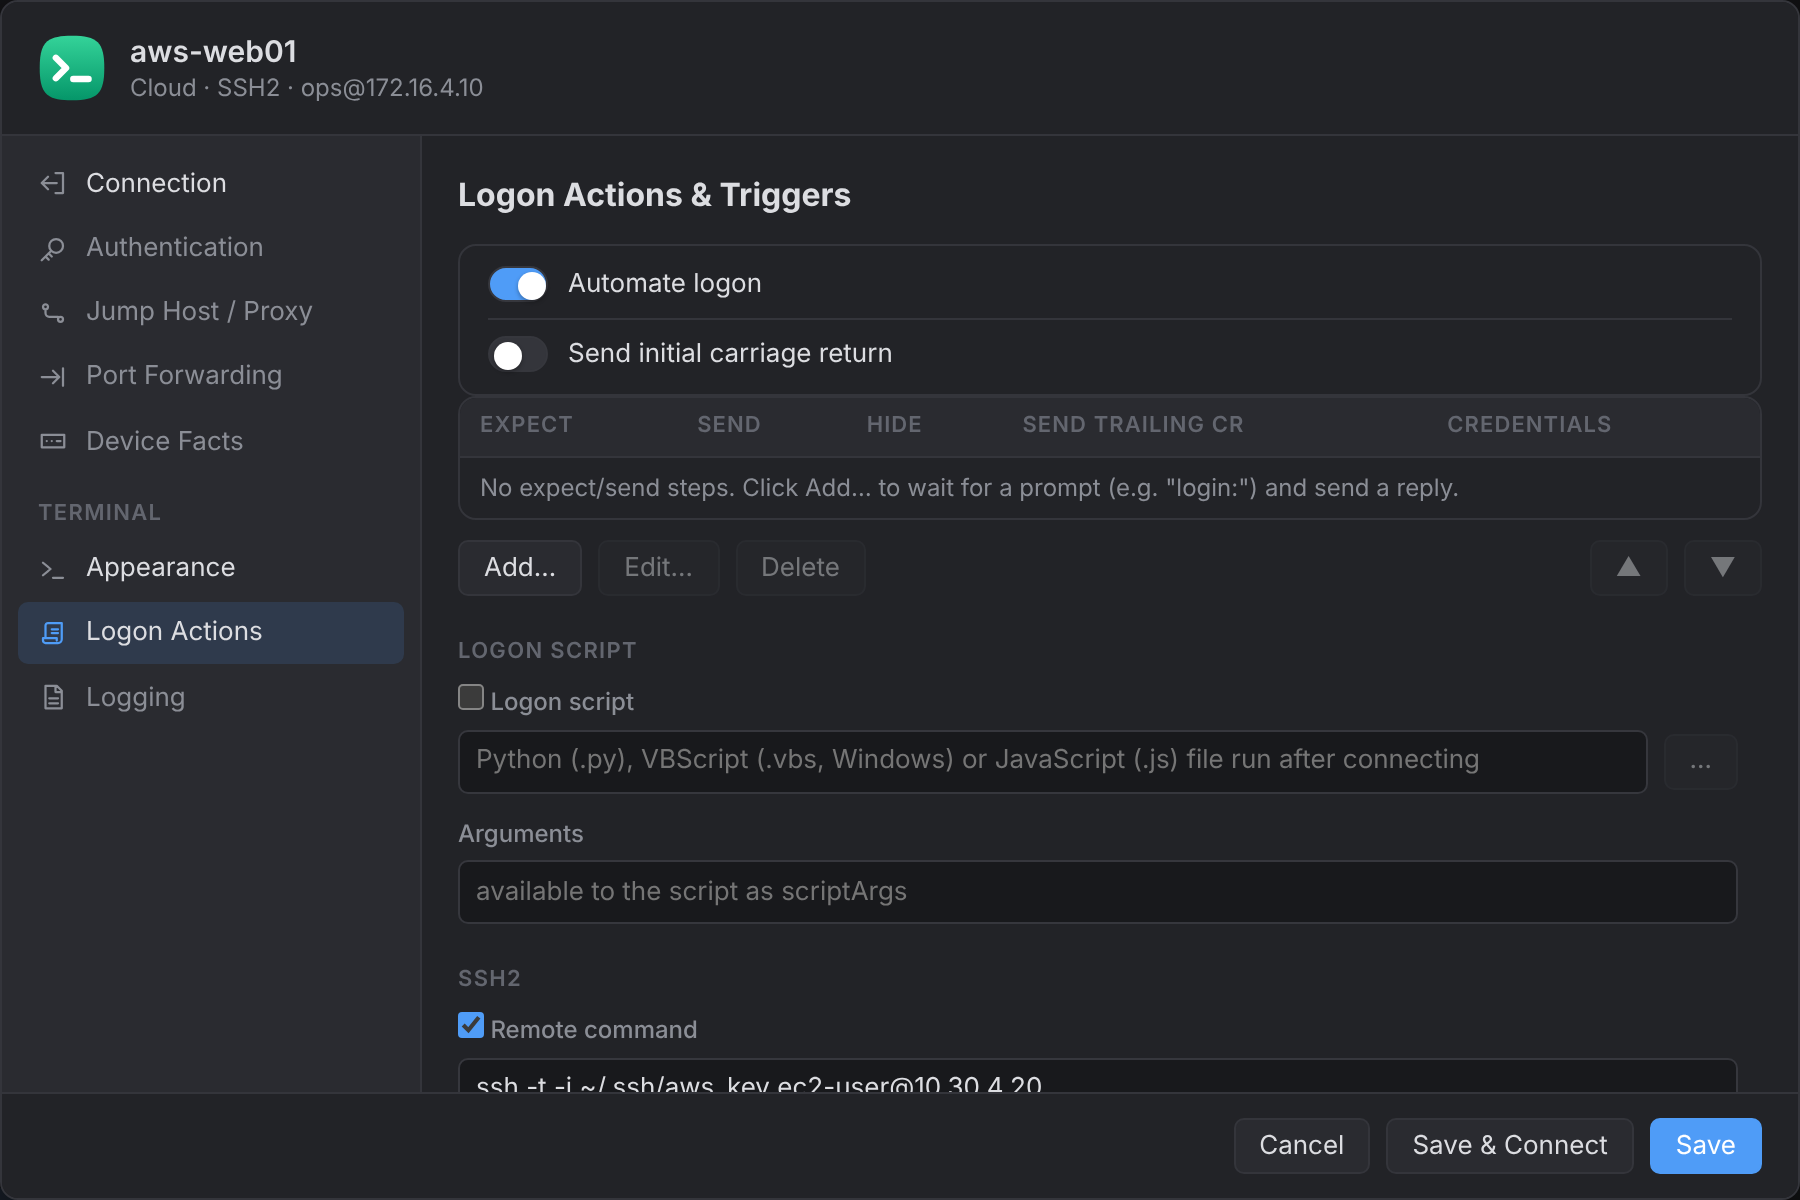
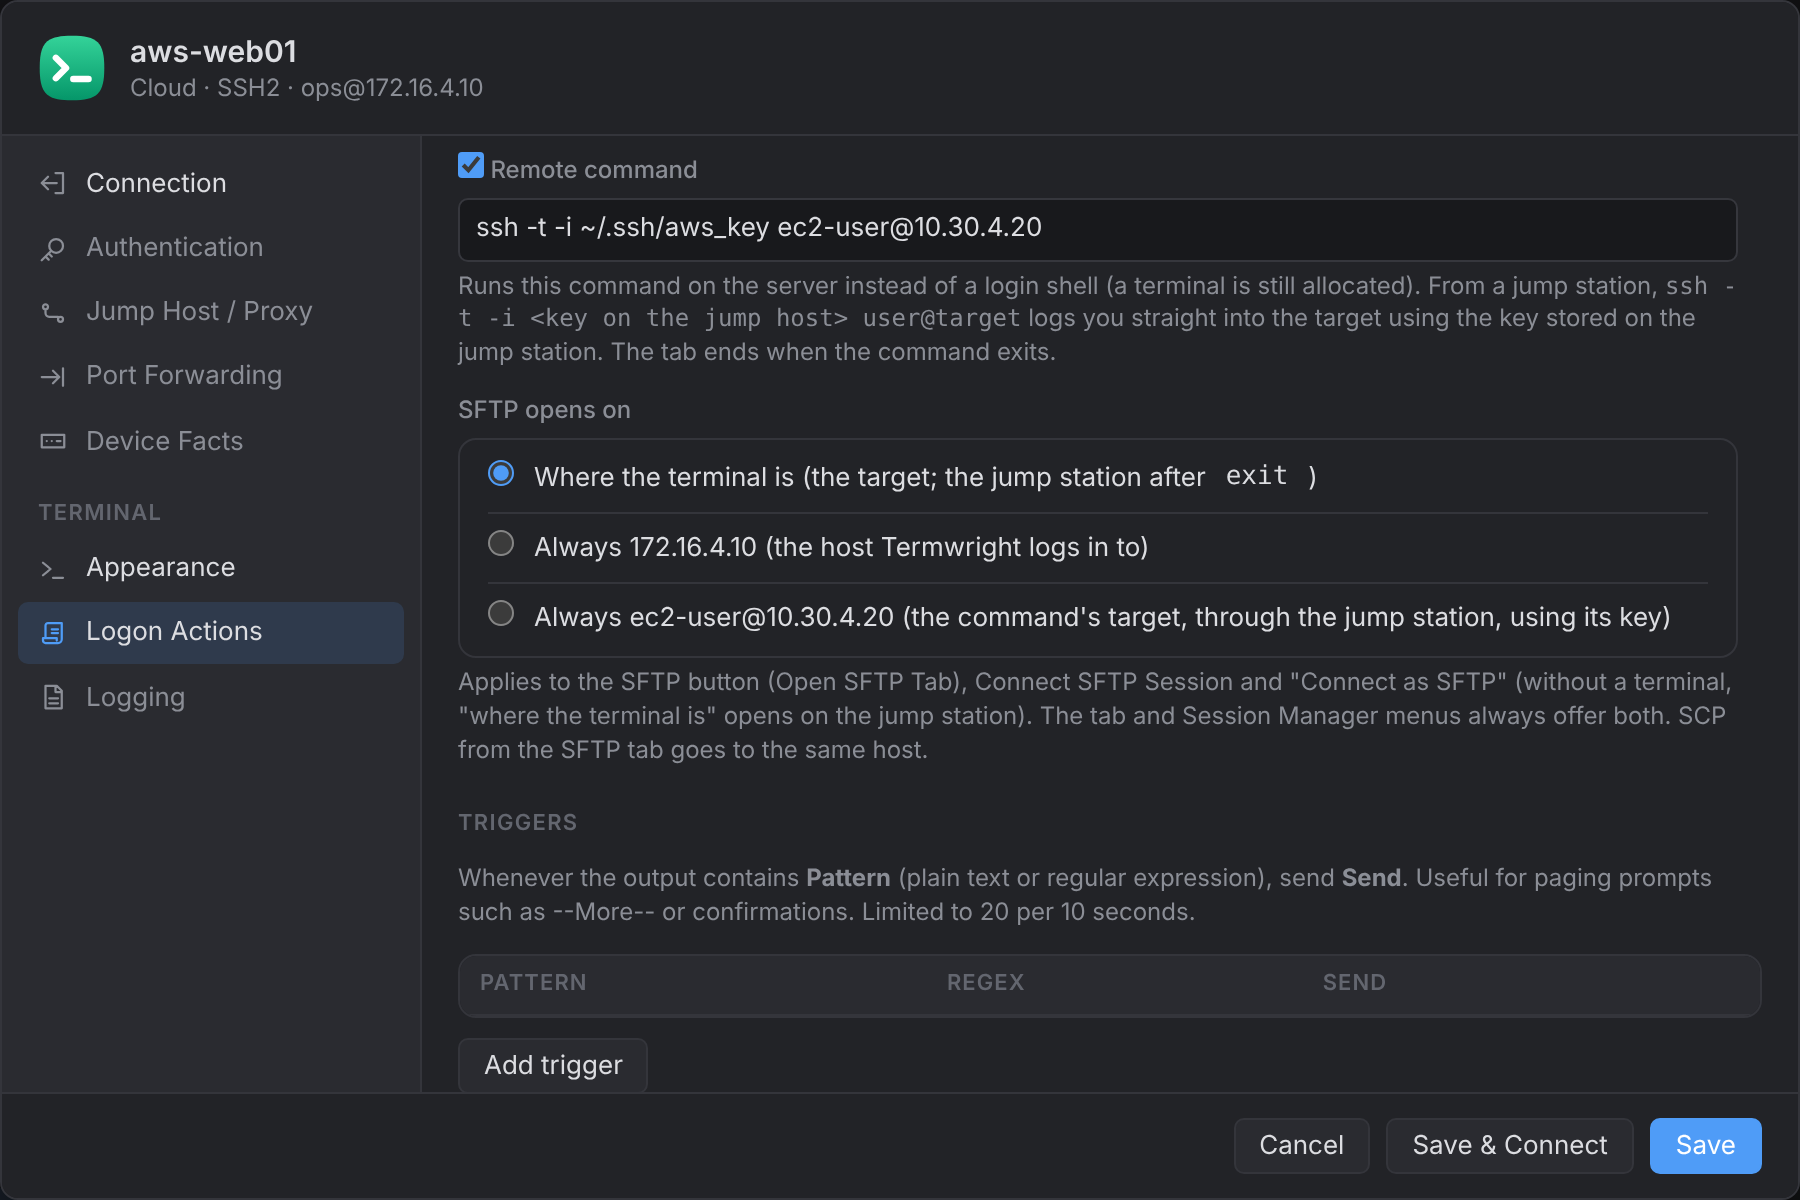
SFTP opens on: where the terminal is (default), always the jump station or always the target

diff --git a/frontend/src/app/dialogs/session-editor.ts b/frontend/src/app/dialogs/session-editor.ts
@@ -473,12 +473,13 @@ export async function storeSession(ui: Ui, backend: Backend, tabs: Tabs, s: Sess
                   @if (s.useRemoteCommand && isHop(s.remoteCommand)) {
                     <label>SFTP opens on</label>
                     <div class="checks">
-                      <label><input type="radio" name="sftpt" [value]="false" [ngModel]="!!s.sftpToTarget" (ngModelChange)="s.sftpToTarget = $event" /> {{ s.hostname || 'the jump station' }} (the host Termwright logs in to)</label>
-                      <label><input type="radio" name="sftpt" [value]="true" [ngModel]="!!s.sftpToTarget" (ngModelChange)="s.sftpToTarget = $event" /> {{ hopTarget(s.remoteCommand) }} (the command's target, through the jump station, using its key)</label>
+                      <label><input type="radio" name="sftpt" value="" [ngModel]="sftpOn(s)" (ngModelChange)="setSftpOn(s, $event)" /> Where the terminal is (the target; the jump station after <code>exit</code>)</label>
+                      <label><input type="radio" name="sftpt" value="jump" [ngModel]="sftpOn(s)" (ngModelChange)="setSftpOn(s, $event)" /> Always {{ s.hostname || 'the jump station' }} (the host Termwright logs in to)</label>
+                      <label><input type="radio" name="sftpt" value="target" [ngModel]="sftpOn(s)" (ngModelChange)="setSftpOn(s, $event)" /> Always {{ hopTarget(s.remoteCommand) }} (the command's target, through the jump station, using its key)</label>
                     </div>
                     <label></label>
-                    <div class="hint">Applies to the SFTP toolbar button, Connect SFTP Session and "Connect as SFTP". The tab and Session Manager
-                      menus always offer both. SCP from the SFTP tab goes to the same host.</div>
+                    <div class="hint">Applies to the SFTP button (Open SFTP Tab), Connect SFTP Session and "Connect as SFTP" (without a terminal,
+                      "where the terminal is" opens on the jump station). The tab and Session Manager menus always offer both. SCP from the SFTP tab goes to the same host.</div>
                   }
                 </div>
               }
@@ -650,6 +651,9 @@ export class SessionEditor implements OnInit {
   readonly deviceTypes = computed(() => (this.ui.settings()?.deviceTypes ?? []).map(d => d.name));
   /** Light check for "ssh … host" (the backend parses it fully). */
   isHop(cmd: string) { return /^\s*(exec\s+)?\S*\bssh\s+\S/.test(cmd ?? ''); }
+  /** SFTP opens on: '' where the terminal is, 'jump' or 'target' (older sessions: the target flag). */
+  sftpOn(s: Session) { return s.sftpOn || (s.sftpToTarget ? 'target' : ''); }
+  setSftpOn(s: Session, v: '' | 'jump' | 'target') { s.sftpOn = v; s.sftpToTarget = v === 'target'; }
   hopTarget(cmd: string) {
     const w = (cmd ?? '').trim().split(/\s+/).filter(x => x !== 'exec');
     for (let i = 1; i < w.length; i++) {

diff --git a/frontend/src/app/core/models.ts b/frontend/src/app/core/models.ts
@@ -17,7 +17,7 @@ export interface Session {
   consoleServer?: string; consolePort?: number; consoleMethod?: string; consoleUser?: string; consoleBase?: number; consoleProtocol?: string;
   environment?: string; rdpDomain?: string; rdpFullScreen?: boolean; rdpSize?: string; vncViewOnly?: boolean; keywordSet: string; fontFamily: string; fontSize: number; backspace: '' | 'bs'; logonScript: string; serialDtr: boolean; serialRts: boolean;
   logonArgs: string; useLogonScript: boolean; automateLogon: boolean; initialCr: boolean;
-  remoteCommand: string; useRemoteCommand: boolean; openAs: '' | 'sftp'; deviceType: string; ownLogin: boolean; sftpToTarget: boolean; filesPanel?: boolean;
+  remoteCommand: string; useRemoteCommand: boolean; openAs: '' | 'sftp'; deviceType: string; ownLogin: boolean; sftpToTarget: boolean; sftpOn?: '' | 'jump' | 'target'; filesPanel?: boolean;
   kerberosPrincipal: string; kerberosSpn: string; certificateFile: string; serialFlow: '' | 'rtscts' | 'xonxoff';
   serialAutoBaud?: boolean; timestamps?: boolean; noAutoScroll?: boolean;
 }

diff --git a/frontend/src/app/core/tabs.service.ts b/frontend/src/app/core/tabs.service.ts
@@ -164,12 +164,14 @@ export class Tabs {
     // reports the jump station): open SFTP on the host the terminal is on, so
     // the tab can follow its folder; the jump station if that fails.
     const auto = !mode && !!p.hopTarget;
-    if (auto) mode = this.onJump(p) ? 'jump' : 'target';
+    // A host chosen in Session Options (SFTP opens on) wins.
+    const pref = p.session.sftpOn || (p.session.sftpToTarget ? 'target' : '');
+    if (auto) mode = pref || (this.onJump(p) ? 'jump' : 'target');
     try {
       let r: Awaited<ReturnType<Backend['sftpOpen']>>;
       try { r = await this.backend.sftpOpen(p.id, mode); }
       catch (e) {
-        if (!auto || mode !== 'target') throw e;
+        if (!auto || pref || mode !== 'target') throw e;
         this.ui.toast(`SFTP on ${p.hopTarget} did not start (${e instanceof Error ? e.message : e}) - opened on ${p.session.hostname}, where the terminal's folder cannot be followed.`, 'error', 10000);
         mode = 'jump';
         r = await this.backend.sftpOpen(p.id, mode);

diff --git a/internal/session/session.go b/internal/session/session.go
@@ -97,6 +97,7 @@ const (
 	kConProto     = "Termwright Console Protocol"
 	kSFTPTarget   = "Termwright SFTP To Command Target"
 	kFilesPanel   = "Termwright Files Panel"
+	kSFTPOn       = "Termwright SFTP On"
 	kKrbPrinc     = "Termwright Kerberos Principal"
 	kKrbSPN       = "Termwright Kerberos SPN"
 	kCertFile     = "Termwright Certificate File"
@@ -219,6 +220,7 @@ type Session struct {
 	MAC               string `json:"mac"`               // the device's MAC address (Discover Devices): finds it again when its IP changes
 	SmartCard         string `json:"smartCard"`         // "" = no, "any" = any key on a smart card, else the key's SHA256 fingerprint
 	SFTPToTarget      bool   `json:"sftpToTarget"`      // remote command "ssh … host": SFTP opens on that host, through this connection
+	SFTPOn            string `json:"sftpOn"`            // remote command "ssh … host": where SFTP opens - "" where the terminal is, "jump" or "target"
 	FilesPanel        bool   `json:"filesPanel"`        // SSH2: a file browser beside the terminal that follows its folder
 	SerialDTR         bool   `json:"serialDtr"`         // assert DTR when opening the port
 	SerialRTS         bool   `json:"serialRts"`         // assert RTS when opening the port
@@ -331,6 +333,10 @@ func FromFile(path string, f *sessionfile.File) Session {
 	s.ConsoleProtocol = f.Str(kConProto, "")
 	s.SFTPToTarget = f.Bool(kSFTPTarget, false)
 	s.FilesPanel = f.Bool(kFilesPanel, false)
+	s.SFTPOn = f.Str(kSFTPOn, "")
+	if s.SFTPOn == "" && s.SFTPToTarget {
+		s.SFTPOn = "target"
+	}
 	s.KerberosPrincipal = f.Str(kKrbPrinc, "")
 	s.KerberosSPN = f.Str(kKrbSPN, "")
 	s.CertificateFile = f.Str(kCertFile, "")
@@ -646,7 +652,17 @@ func (s Session) Apply(f *sessionfile.File) {
 		f.Delete(kConPort)
 		f.Delete(kConBase)
 	}
+	if s.SFTPOn == "target" {
+		s.SFTPToTarget = true
+	} else if s.SFTPOn != "" {
+		s.SFTPToTarget = false
+	}
 	setOptBool(f, kSFTPTarget, s.SFTPToTarget && s.UseRemoteCommand)
+	if s.SFTPOn != "jump" && s.SFTPOn != "target" || !s.UseRemoteCommand {
+		f.Delete(kSFTPOn)
+	} else {
+		f.SetStr(kSFTPOn, s.SFTPOn)
+	}
 	setOptBool(f, kFilesPanel, s.FilesPanel && s.Protocol == ProtoSSH2)
 	setOptStr(f, kKrbPrinc, s.KerberosPrincipal)
 	setOptStr(f, kKrbSPN, s.KerberosSPN)

diff --git a/internal/session/sftpon_test.go b/internal/session/sftpon_test.go
@@ -1,0 +1,33 @@
+package session
+
+import "testing"
+
+func TestSFTPOnRoundTrip(t *testing.T) {
+	st, err := NewStore(t.TempDir())
+	if err != nil {
+		t.Fatal(err)
+	}
+	base := Session{Name: "dl2", Protocol: ProtoSSH2, Hostname: "gw", UseRemoteCommand: true, RemoteCommand: "ssh -t dl2"}
+	for _, want := range []string{"", "jump", "target"} {
+		s := base
+		s.SFTPOn, s.Name = want, "dl2-"+want
+		saved, err := st.Save(s, "")
+		if err != nil {
+			t.Fatal(err)
+		}
+		got, err := st.Get(saved.Path)
+		if err != nil {
+			t.Fatal(err)
+		}
+		if got.SFTPOn != want || got.SFTPToTarget != (want == "target") {
+			t.Fatalf("want %q, got %q / %v", want, got.SFTPOn, got.SFTPToTarget)
+		}
+	}
+	// a session saved by an older version: only the target flag
+	s := base
+	s.Name, s.SFTPToTarget = "old", true
+	saved, _ := st.Save(s, "")
+	if got, _ := st.Get(saved.Path); got.SFTPOn != "target" {
+		t.Fatalf("old flag: got %q", got.SFTPOn)
+	}
+}

diff --git a/CHANGELOG.md b/CHANGELOG.md
@@ -53,7 +53,7 @@ A cleaner, more modern look, now the default. The **Classic** layout (toolbar, t
 * **SFTP**: the copy arrows, **Sync** (→ / ←) and **Diff** sit between the panes; select one file on each side and Diff opens Compare with both (line numbers, ignore whitespace and timestamps). The transfer bar always shows the speed, and a finished transfer its average speed.
 * **Session Manager**: device types line up in one column (room for any IPv4 address), and a new hover card (device icon, name, address, then Via, device type, facts, MAC and login in two columns) that opens faster.
 * **SFTP Diff**: compares any two selected files - one on each side or both on the same side (disabled with more than two); **Compare** says at the top in green that the files (or outputs) are identical - exactly, or once whitespace / timestamps are ignored - or in amber how many lines differ.
-* **SFTP and the terminal through a jump station**: the terminal's host is read from the shell's folder report, so an SFTP tab on the jump station follows the terminal once you `exit` from the target (folder detection is turned on in the shell you return to), and the target's SFTP tab stops following it. When the terminal is on the other host, the tab shows **>_ On <host> ▾**: Switch This Tab to <host> reopens it there. An SFTP session with its own login follows an open terminal tab of the same session too. **Open SFTP Tab** (title bar, ⌘P, tab menu) on such a session opens on the host the terminal is on - the target, or the jump station after `exit` - so the tab can follow its folder (the jump station if SFTP on the target does not start).
+* **SFTP and the terminal through a jump station**: the terminal's host is read from the shell's folder report, so an SFTP tab on the jump station follows the terminal once you `exit` from the target (folder detection is turned on in the shell you return to), and the target's SFTP tab stops following it. When the terminal is on the other host, the tab shows **>_ On <host> ▾**: Switch This Tab to <host> reopens it there. An SFTP session with its own login follows an open terminal tab of the same session too. **Open SFTP Tab** (title bar, ⌘P, tab menu) on such a session opens on the host the terminal is on - the target, or the jump station after `exit` - so the tab can follow its folder (the jump station if SFTP on the target does not start). Session Options → Logon Actions → **SFTP opens on** has *Where the terminal is* (the default), *Always <jump station>* and *Always <target>*; a host chosen there wins (sessions set to the jump station before keep *Where the terminal is* - choose *Always* again if you want it).
 * **Files panel** beside an SSH terminal - on the side opposite the Session Manager (Session Options → *Files panel beside the terminal*, or View → Files Panel / the title-bar button / ⌘⇧1 for a tab): a small file browser that **follows the terminal's folder** (through a jump station too), **cd's the terminal** to a folder you open in it (when the shell is at a prompt), and opens a **double-clicked file on this computer** with its usual program; when you save it, the panel asks to **upload** it back (Upload Now / Not Now / Stop Watching). Upload, Download…, New Folder, Rename, Delete, Copy Path, hidden files on/off, drag the edge to resize. Programs and shortcuts (.exe, .app, .command, .bat …) are never opened from a server.
 * **Command History**: wider, a tidy footer, a trash button on each command (or Shift+Delete) to forget a mistyped or no longer supported command, and **Clear History…** (a red button) asks which device types to forget.
 * Passwords & Credentials: Export / Import no longer overlap the fields above them.

diff --git a/docs/USER_GUIDE.md b/docs/USER_GUIDE.md
@@ -742,7 +742,7 @@ ssh -t -i ~/.ssh/aws_key ec2-user@10.0.0.5
 
 - right-click the terminal tab → **Open SFTP Tab on &lt;jump host&gt; (same login)** or **Open SFTP Tab on &lt;user@host&gt; (through this login)**;
 - right-click the session in the Session Manager → **Connect SFTP Session to &lt;jump host&gt;** or **… to &lt;user@host&gt; (through &lt;jump host&gt;)**;
-- Session Options → Logon Actions → **SFTP opens on**: choose which one the SFTP toolbar button, *Connect SFTP Session* and *Connect as: SFTP* use.
+- Session Options → Logon Actions → **SFTP opens on**: *Where the terminal is* (the default - the target, or the jump station after `exit`), *Always <jump station>* or *Always <target>*. The SFTP button (Open SFTP Tab), *Connect SFTP Session* and *Connect as: SFTP* use it; without a terminal, *Where the terminal is* opens on the jump station.
 
 ![SFTP choices on the tab menu](screenshots/sftp-hop-menu.png)
 
